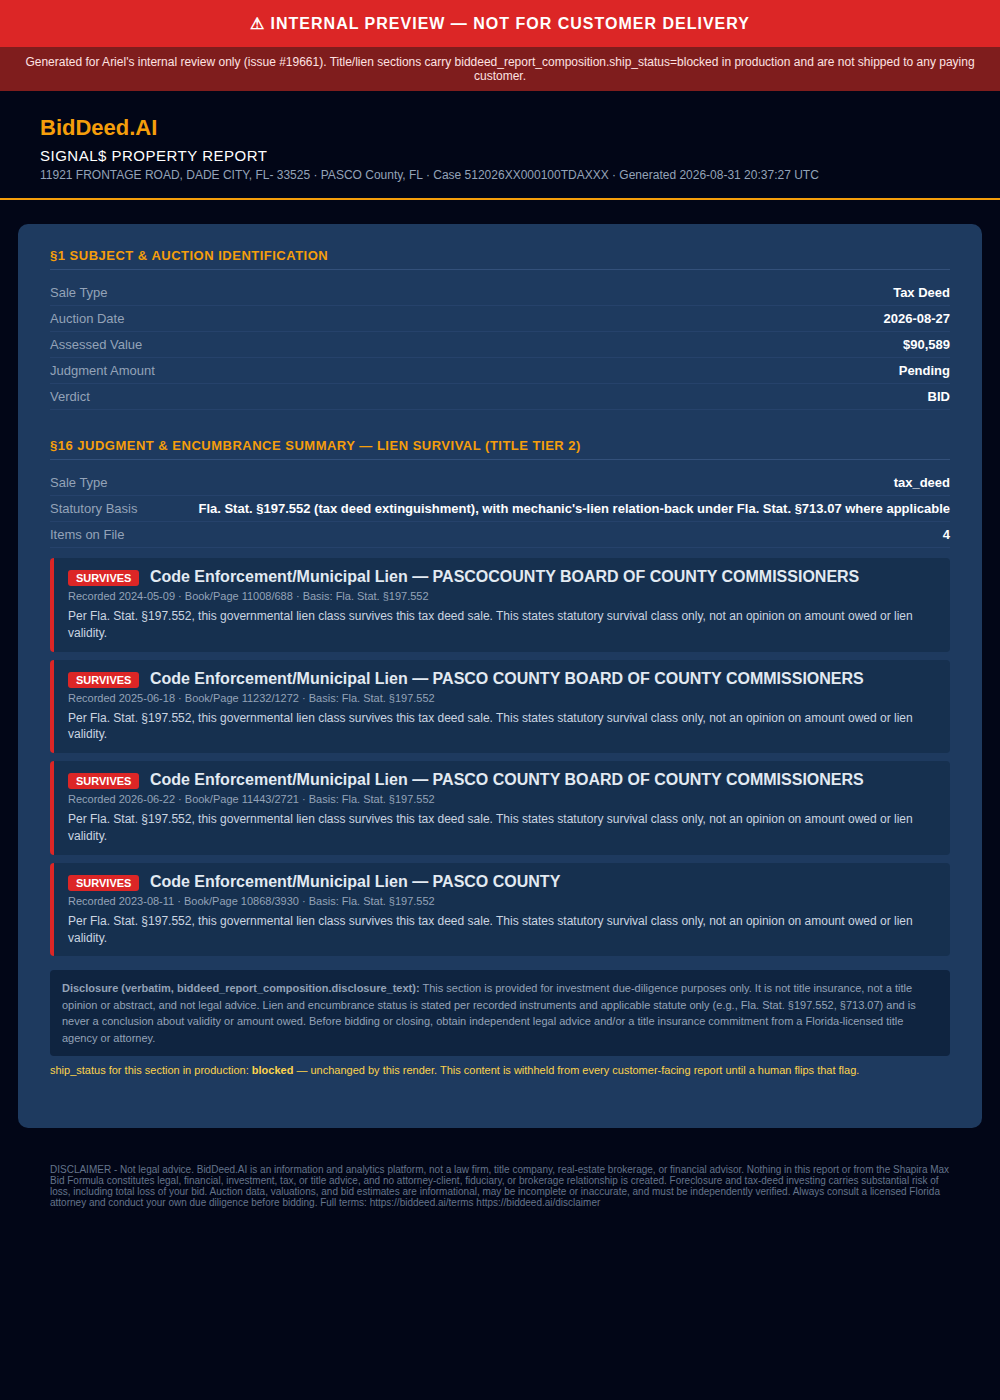
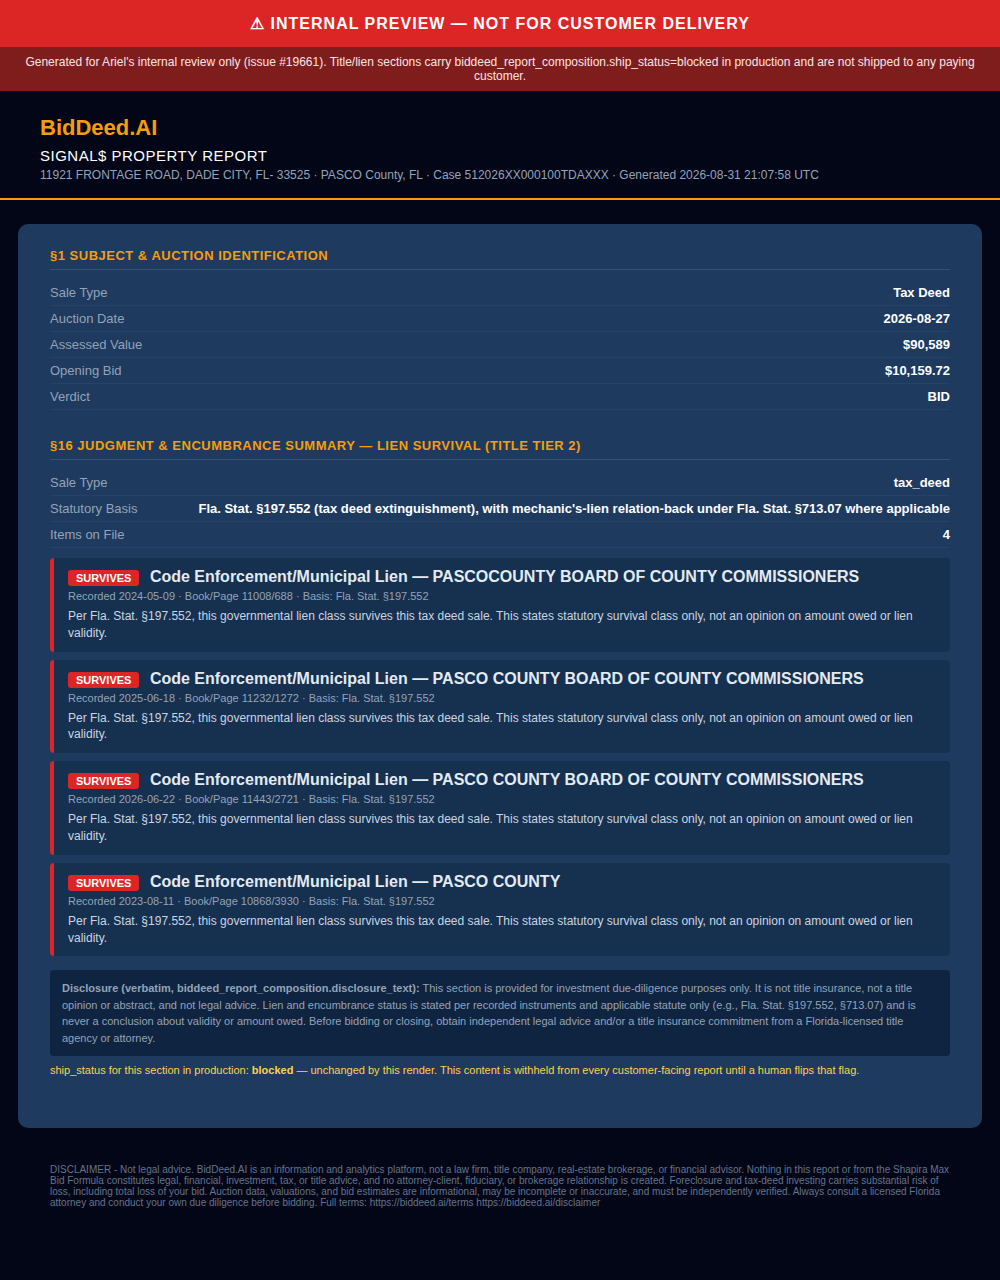
CC GHA-only: issue 19662 (run 33438664958)

Changed region(s): [[0.0, 0.0, 1.0, 0.9688]]

diff --git a/packages/biddeed-mcp/test/s5-report-golden.test.js b/packages/biddeed-mcp/test/s5-report-golden.test.js
@@ -416,3 +416,78 @@ test('§16 lien_survival: ship_status=live but no recorded-document coverage on 
   assert.match(report.composition.lien_survival.status, /insufficient recorded-document coverage/,
     'no lien_results rows for this parcel must render the exact insufficient-coverage Pending reason, not fall back silently to only the red-flags heuristic');
 });
+
+// ── §1 tax-deed "Judgment Amount: Pending" fix (issue #19662) ──────────────
+// Tax deed sales (FL FS Ch. 197) have no final judgment — that is a
+// foreclosure (Ch. 45) concept. Live defect (Pasco 512026XX000100TDAXXX /
+// 512026XX000105TDAXXX, verification/signal-report-INTERNAL-pasco-*.png):
+// §1 rendered "Judgment Amount: Pending" on tax deed cases, which falsely
+// implies a judgment exists and is forthcoming. Fixed at the source: the
+// composer's auction_listing object for isTaxDeed never carries a
+// judgment_amount key at all, only opening_bid/outstanding_certs_total/
+// cert_number — every renderer (worker.js, pdf.js, generate_internal_signal_
+// report.mjs) must brand on cover.sale_type and stop rendering a Judgment
+// field for these cases.
+const PARCEL_PASCO_TD = {
+  parcel_id: 'PASCO-TD-TEST-01', co_no: 51, phy_addr1: '456 TAX DEED LN',
+  phy_city: 'NEW PORT RICHEY', municipality: 'NEW PORT RICHEY', dor_uc: '000',
+  jv: 45000, lnd_val: 20000, lnd_sqfoot: 6000, tot_lvg_ar: 0,
+  phy_zipcd: '34652',
+};
+
+const AUCTION_PASCO_TAX_DEED = {
+  case_number: '512026XX000100TDAXXX', county: 'pasco',
+  property_address: '456 TAX DEED LN, NEW PORT RICHEY, FL- 34652',
+  auction_date: '2026-09-15', sale_type: 'tax_deed',
+  opening_bid: 10159.72, assessed_value: 45000, market_value: 45000,
+  cert_number: null, outstanding_certs_total: null,
+};
+
+function mockGetForPascoTaxDeed() {
+  return async (pathStr) => {
+    if (pathStr.startsWith('multi_county_auctions')) return []; // insufficient priors — not the point of this fixture
+    if (pathStr.startsWith('county_co_no_resolution')) return [{ co_no: 51 }]; // pasco
+    if (pathStr.startsWith('fl_parcels')) {
+      const match = decodeURIComponent(pathStr).match(/phy_addr1=eq\.([^&]+)/);
+      const addr = match?.[1];
+      return addr === '456 TAX DEED LN' ? [PARCEL_PASCO_TD] : [];
+    }
+    if (pathStr.startsWith('zoning_assignments')) return [];
+    if (pathStr.startsWith('shapira_formula_params')) return []; // falls to default params
+    if (pathStr.startsWith('rpc/get_report_composition_gate')) return [];
+    if (pathStr.startsWith('lien_results')) return [];
+    return [];
+  };
+}
+
+test('Pasco tax deed 512026XX000100TDAXXX: auction_listing carries no judgment_amount key, opening_bid populated instead', async () => {
+  installTinyModel();
+  const get = mockGetForPascoTaxDeed();
+  const report = await buildReport(AUCTION_PASCO_TAX_DEED, { get });
+
+  assert.equal(report.cover.sale_type, 'tax_deed');
+  assert.ok(!('judgment_amount' in report.auction_listing),
+    'a tax deed auction_listing must never carry a judgment_amount key — a final judgment is a foreclosure (Ch. 45) concept');
+  assert.equal(report.auction_listing.opening_bid.value, 10159.72);
+  assert.equal(report.auction_listing.opening_bid.display, '$10,159.72');
+  assert.ok(!('plaintiff' in report.auction_listing),
+    'a tax deed sale has a taxing authority, not a plaintiff — the foreclosure-only field must not appear');
+});
+
+// The internal-preview renderer (generate_internal_signal_report.mjs) is the
+// one HTML-producing §1 renderer this suite can import directly (worker.js
+// and pdf.js are not module-exported for renderer-level testing) — it proves
+// the fix end-to-end: real rendered HTML, not just the composer's data shape.
+test('Pasco tax deed: rendered §1 HTML contains no "Judgment" and shows Opening Bid', async () => {
+  installTinyModel();
+  const { renderInternalPreviewHtml } = await import('../scripts/generate_internal_signal_report.mjs');
+  const get = mockGetForPascoTaxDeed();
+  const report = await buildReport(AUCTION_PASCO_TAX_DEED, { get });
+
+  const html = renderInternalPreviewHtml(report, null, { caseNumber: AUCTION_PASCO_TAX_DEED.case_number });
+  const sec1 = html.slice(html.indexOf('&sect;1 '), html.indexOf('&sect;16'));
+
+  assert.doesNotMatch(sec1, /Judgment/, '§1 must not render a "Judgment" field on a tax deed case');
+  assert.match(sec1, /Opening Bid/, '§1 must render "Opening Bid" on a tax deed case');
+  assert.match(sec1, /\$10,159\.72/, '§1 must render the real opening bid amount, not a placeholder');
+});

diff --git a/packages/biddeed-mcp/src/report/pdf.js b/packages/biddeed-mcp/src/report/pdf.js
@@ -161,15 +161,32 @@ const SECTION_RENDERERS = {
   subject_identification(doc, report, section) {
     const cover   = report.cover || {};
     const auction = report.auction_listing || {};
+    const isTaxDeed = cover.sale_type === 'tax_deed';
     row(doc, 'Address',          cover.property_address,   true);
     row(doc, 'County',           `${(cover.county||'').toUpperCase()} County, Florida`);
     row(doc, 'Case Number',      cover.case_number,         true);
     row(doc, 'Sale Type',        cover.sale_type);
     row(doc, 'Auction Date',     auction.auction_date || cover.auction_date, true);
-    row(doc, 'Plaintiff',        auction.plaintiff || cover.plaintiff);
-    row(doc, 'Assessed Value',   money(auction.assessed_value), true);
-    row(doc, 'Final Judgment',   money(auction.judgment_amount));
-    row(doc, 'Plaintiff Max Bid',money(auction.plaintiff_max_bid), true);
+    if (isTaxDeed) {
+      // Tax deed sales (FL FS Ch. 197) have no final judgment — that is a
+      // foreclosure (Ch. 45) concept. No plaintiff either. #19662
+      row(doc, 'Assessed Value', money(auction.assessed_value), true);
+      const hasOpeningBid = auction.opening_bid && auction.opening_bid.value != null;
+      const hasCertsTotal = auction.outstanding_certs_total && auction.outstanding_certs_total.value != null;
+      const hasCertNumber = !!auction.cert_number;
+      if (!hasOpeningBid && !hasCertsTotal && !hasCertNumber) {
+        row(doc, 'Opening Bid', 'N/A — tax deed sale (no final judgment)');
+      } else {
+        row(doc, 'Opening Bid', money(auction.opening_bid));
+        if (hasCertsTotal) row(doc, 'Outstanding Certificates Total', money(auction.outstanding_certs_total), true);
+        if (hasCertNumber) row(doc, 'Certificate #', auction.cert_number);
+      }
+    } else {
+      row(doc, 'Plaintiff',        auction.plaintiff || cover.plaintiff);
+      row(doc, 'Assessed Value',   money(auction.assessed_value), true);
+      row(doc, 'Final Judgment',   money(auction.judgment_amount));
+      row(doc, 'Plaintiff Max Bid',money(auction.plaintiff_max_bid), true);
+    }
     row(doc, 'Gold Standard',    cover.cert_status || 'Standard');
     liabilityNote(doc, section.liability_note);
   },
@@ -530,8 +547,14 @@ export async function renderReportPdf(report, { get = defaultGet } = {}) {
     doc.fontSize(11).font('Helvetica')
       .text(`INVESTMENT GRADE ${cover.investment_grade || '—'}  ·  SHAPIRA MAX BID ${money(cover.shapira_max_bid)}`, 50, doc.y - 20);
     const aj = report.auction_listing || {};
+    // Tax deed sales (FL FS Ch. 197) have no final judgment or plaintiff —
+    // those are foreclosure (Ch. 45) concepts. Same rule as the §1 band
+    // below, applied to this cover KPI strip (#19662).
     doc.fontSize(9)
-      .text(`FINAL JUDGMENT ${money(aj.judgment_amount)}  ·  ASSESSED VALUE ${money(aj.assessed_value)}  ·  PLAINTIFF MAX BID ${money(aj.plaintiff_max_bid)}`, 50, doc.y - 4);
+      .text(cover.sale_type === 'tax_deed'
+        ? `OPENING BID ${money(aj.opening_bid)}  ·  ASSESSED VALUE ${money(aj.assessed_value)}`
+        : `FINAL JUDGMENT ${money(aj.judgment_amount)}  ·  ASSESSED VALUE ${money(aj.assessed_value)}  ·  PLAINTIFF MAX BID ${money(aj.plaintiff_max_bid)}`,
+        50, doc.y - 4);
     doc.y += 14;
 
     // Thesis line (from cover.thesis if present)

diff --git a/packages/biddeed-mcp/src/report/composer.js b/packages/biddeed-mcp/src/report/composer.js
@@ -310,6 +310,7 @@ export async function buildReport(auction, { get = defaultGet } = {}) {
       cover: {
         case_number: auction.case_number,
         county,
+        sale_type: auction.sale_type || null,
         verdict: 'SKIP',
         investment_grade: 'D',
         shapira_max_bid: null,
@@ -413,6 +414,7 @@ export async function buildReport(auction, { get = defaultGet } = {}) {
       case_number: auction.case_number,
       county,
       property_address: auction.property_address,
+      sale_type: auction.sale_type || null,
       verdict,
       investment_grade: grade(marginPct ?? -1, true),
       // Equity at acquisition (day-one, as-is)
@@ -456,15 +458,19 @@ export async function buildReport(auction, { get = defaultGet } = {}) {
       homestead_status: auction.homestead_status || (parcel?.jv_hmstd != null ? (Number(parcel.jv_hmstd) > 0 ? 'homestead (fl_parcels jv_hmstd>0)' : 'non-homestead (fl_parcels jv_hmstd=0)') : 'Pending'),
     },
     auction_listing: isTaxDeed ? {
-      // §1 TAX DEED — no plaintiff, no judgment
-      case_number:            auction.case_number,
-      auction_date:           auction.auction_date,
-      assessed_value:         money(auction.assessed_value, 'assessed_value'),
-      taxing_authority:       auction.plaintiff || 'Pending — taxing authority not on file',
-      unpaid_taxes:           money(auction.opening_bid, 'opening_bid (unpaid taxes + certificate interest + fees)'),
-      irs_lien_risk:          'IRS federal tax liens survive FL tax deed sales — independent IRS lien search required (26 U.S.C. § 7425)',
-      hoa_lien_risk:          'HOA/COA liens may survive or re-attach (FL FS 720.3085 / 718.116) — confirm outstanding balance',
-      statutory_basis:        'FL FS 197.502 / 197.552 / 197.582',
+      // §1 TAX DEED — no plaintiff, no judgment (Chapter 197 opening bid, not
+      // a Chapter 45 final judgment — see #19662).
+      case_number:             auction.case_number,
+      auction_date:            auction.auction_date,
+      assessed_value:          money(auction.assessed_value, 'assessed_value'),
+      taxing_authority:        auction.plaintiff || 'Pending — taxing authority not on file',
+      unpaid_taxes:            money(auction.opening_bid, 'opening_bid (unpaid taxes + certificate interest + fees)'),
+      opening_bid:             money(auction.opening_bid ?? auction.opening_bid_usd, 'opening_bid'),
+      outstanding_certs_total: auction.outstanding_certs_total != null ? money(auction.outstanding_certs_total, 'outstanding_certs_total') : null,
+      cert_number:             auction.cert_number || null,
+      irs_lien_risk:           'IRS federal tax liens survive FL tax deed sales — independent IRS lien search required (26 U.S.C. § 7425)',
+      hoa_lien_risk:           'HOA/COA liens may survive or re-attach (FL FS 720.3085 / 718.116) — confirm outstanding balance',
+      statutory_basis:         'FL FS 197.502 / 197.552 / 197.582',
     } : {
       // §1 FORECLOSURE — standard fields
       case_number: auction.case_number,

diff --git a/src/worker.js b/src/worker.js
@@ -286,6 +286,25 @@ function s5Row(label, value) {
   return `<div class="row"><span class="row-l">${escHtml(label)}</span><span class="row-v">${value}</span></div>`;
 }
 
+// Tax deed §1 identification rows — Chapter 197 opening bid data, never a
+// foreclosure "Final Judgment" (#19662). Opening bid renders whenever on
+// file; certificate rows are conditional on data presence, per composer.js
+// isTaxDeed auction_listing shape.
+function taxDeedIdRows(auction) {
+  const rows = [s5Row('Assessed Value', dispVal(auction.assessed_value))];
+  const hasOpeningBid = auction.opening_bid && auction.opening_bid.value != null;
+  const hasCertsTotal = auction.outstanding_certs_total && auction.outstanding_certs_total.value != null;
+  const hasCertNumber = !!auction.cert_number;
+  if (!hasOpeningBid && !hasCertsTotal && !hasCertNumber) {
+    rows.push(s5Row('Opening Bid', 'N/A — tax deed sale (no final judgment)'));
+    return rows;
+  }
+  rows.push(s5Row('Opening Bid', dispVal(auction.opening_bid)));
+  if (hasCertsTotal) rows.push(s5Row('Outstanding Certificates Total', dispVal(auction.outstanding_certs_total)));
+  if (hasCertNumber) rows.push(s5Row('Certificate #', escHtml(auction.cert_number)));
+  return rows;
+}
+
 function s5CompTable(comps, cols) {
   if (!Array.isArray(comps) || !comps.length) return '<div class="pending">No comps available.</div>';
   const head = cols.map(c => `<th>${escHtml(c.label)}</th>`).join('');
@@ -344,15 +363,21 @@ function renderS5ReportHtml(report, { mcaId, keyLast8 }) {
   }
 
   // ── §1 Subject & Auction Identification ──────────────────────────────────
+  // Tax deed sales (FL FS Ch. 197) have no final judgment — that is a
+  // foreclosure (Ch. 45) concept. Never render "Judgment Amount: Pending" on
+  // a tax deed; render the opening bid / certificate data instead (#19662).
+  const isTaxDeedSale = cover.sale_type === 'tax_deed';
   const sec1 = [
     s5Row('Address', escHtml(cover.property_address)),
     s5Row('County', `${escHtml(countyLabel)} County, Florida`),
     s5Row('Case Number', escHtml(cover.case_number)),
     s5Row('Auction Date', escHtml(auction.auction_date || 'Pending')),
-    s5Row('Plaintiff', dispVal(auction.plaintiff)),
-    s5Row('Assessed Value', dispVal(auction.assessed_value)),
-    s5Row('Final Judgment', dispVal(auction.judgment_amount)),
-    s5Row('Plaintiff Max Bid', dispVal(auction.plaintiff_max_bid)),
+    ...(isTaxDeedSale ? taxDeedIdRows(auction) : [
+      s5Row('Plaintiff', dispVal(auction.plaintiff)),
+      s5Row('Assessed Value', dispVal(auction.assessed_value)),
+      s5Row('Final Judgment', dispVal(auction.judgment_amount)),
+      s5Row('Plaintiff Max Bid', dispVal(auction.plaintiff_max_bid)),
+    ]),
   ].join('');
 
   // ── §2-3 Value Estimate ───────────────────────────────────────────────────
